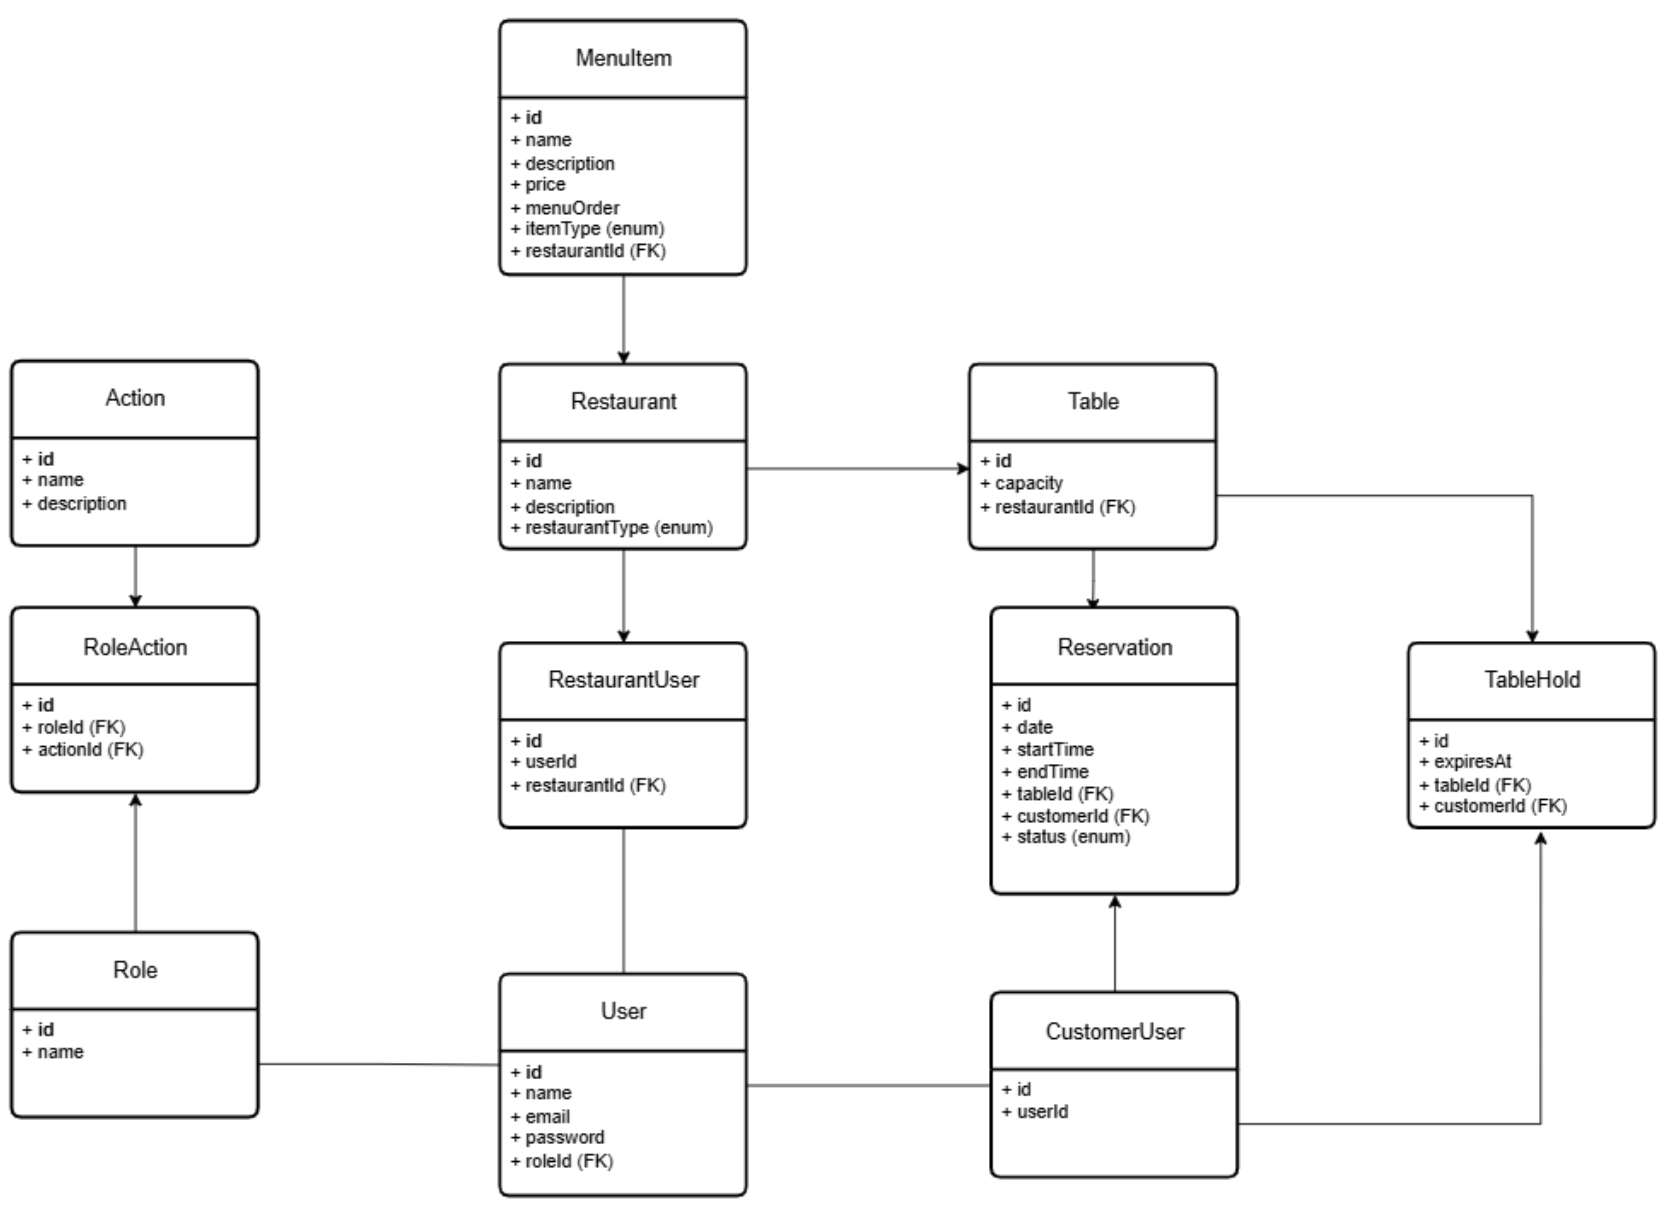
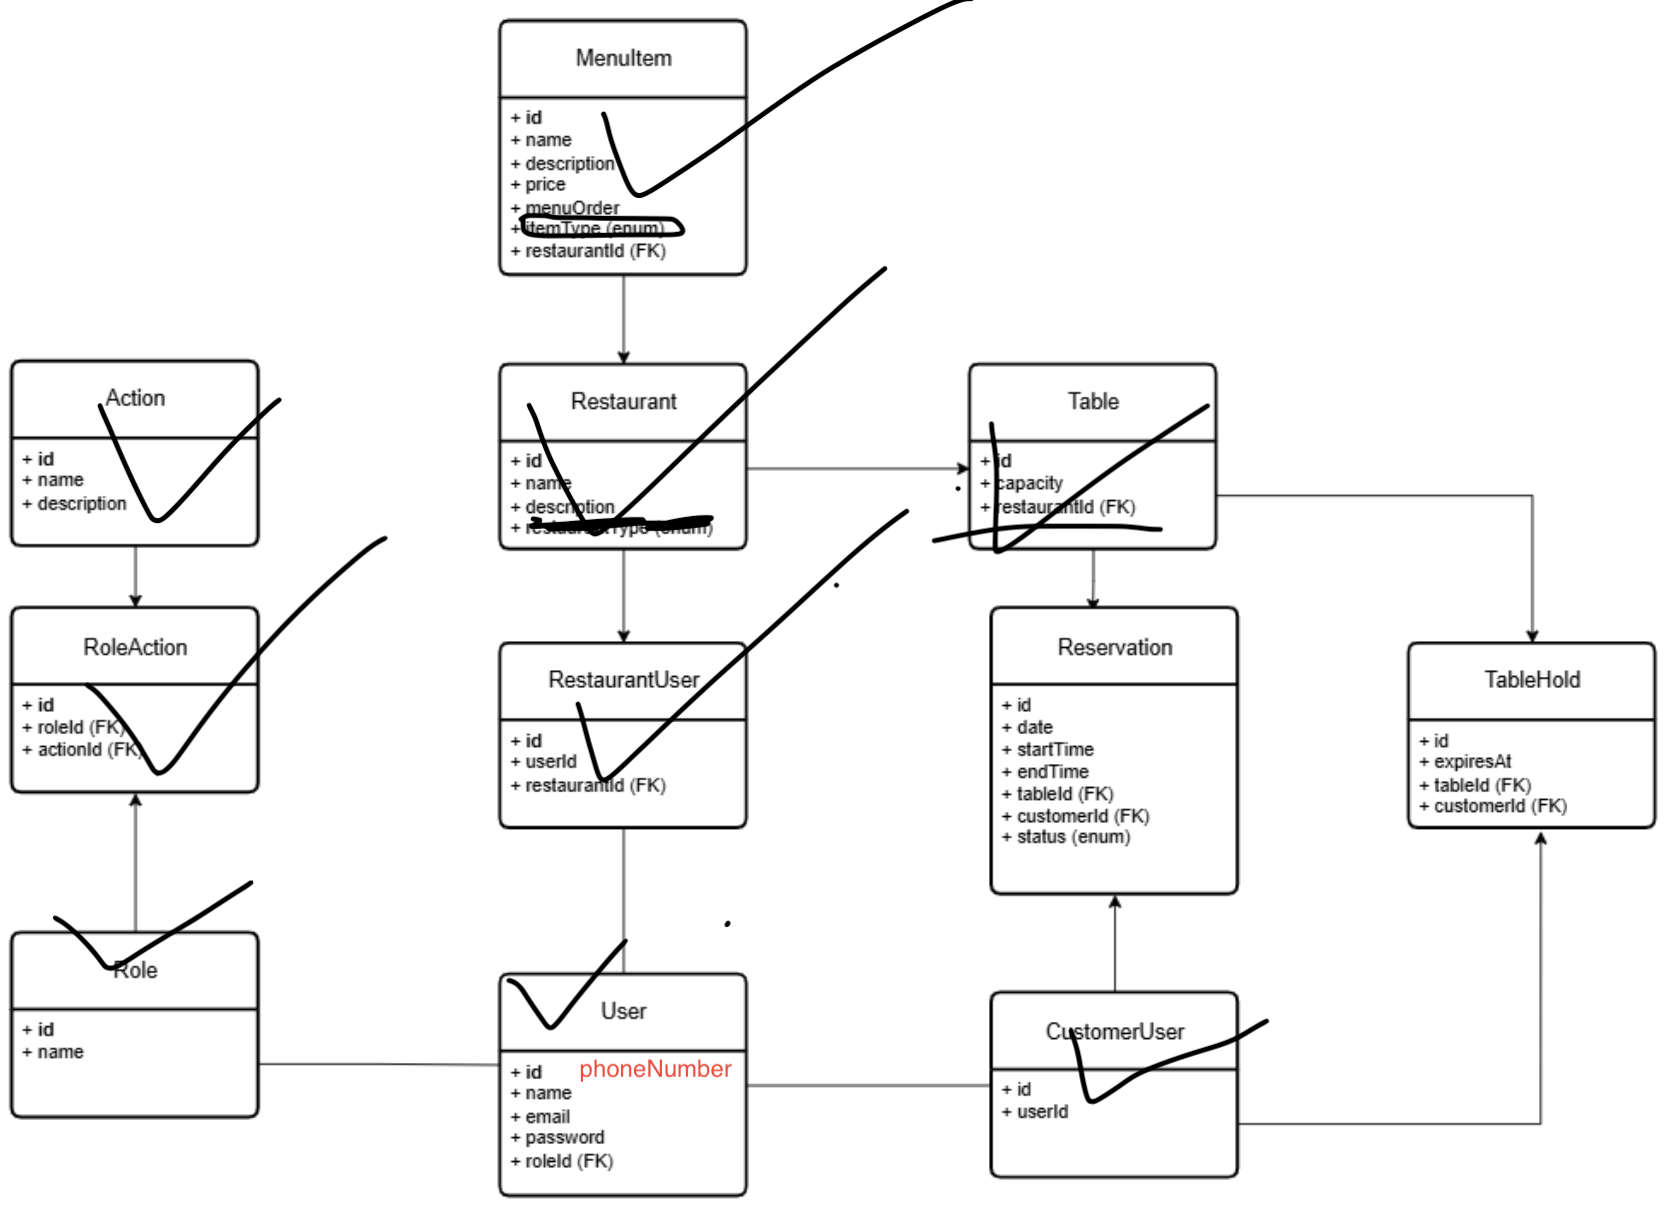
#4 create entity classes, add test containers configuration

diff --git a/src/main/java/com/mennangok1/reserved/user/User.java b/src/main/java/com/mennangok1/reserved/user/User.java
@@ -1,0 +1,38 @@
+package com.mennangok1.reserved.user;
+
+import com.mennangok1.reserved.role.Role;
+import jakarta.persistence.*;
+import jakarta.validation.constraints.Email;
+import jakarta.validation.constraints.NotBlank;
+import lombok.Getter;
+import lombok.Setter;
+
+@Entity
+@Getter
+@Setter
+public class User {
+    @Id
+    @GeneratedValue(strategy = GenerationType.IDENTITY)
+    @Column (name = "ID")
+    private Long id;
+
+    @Column (name = "NAME", nullable = false)
+    @NotBlank( message = "User Name cannot be empty!")
+    private String name;
+
+    @Column (name = "EMAIL", nullable = false)
+    @Email (message = "Enter a valid e-mail address!")
+    @NotBlank (message = "E-mail cannot be empty!")
+    private String email;
+
+    @Column (name = "PASSWORD", nullable = false)
+    private String password;
+
+    @Column (name = "PHONE_NUMBER")
+    private String phoneNumber;
+
+    @ManyToOne (fetch = FetchType.LAZY)
+    @JoinColumn(name = "ROLE_ID", nullable = false)
+    private Role role;
+
+}

diff --git a/src/main/java/com/mennangok1/reserved/reservation/Reservation.java b/src/main/java/com/mennangok1/reserved/reservation/Reservation.java
@@ -1,0 +1,39 @@
+package com.mennangok1.reserved.reservation;
+
+import com.mennangok1.reserved.customerUser.CustomerUser;
+import com.mennangok1.reserved.restaurantTable.RestaurantTable;
+import jakarta.persistence.*;
+import lombok.Getter;
+import lombok.Setter;
+import java.time.LocalDateTime;
+
+@Entity
+@Getter
+@Setter
+public class Reservation {
+    @Id
+    @GeneratedValue(strategy = GenerationType.IDENTITY)
+    @Column (name = "ID")
+    private Long id;
+
+    @Column (name = "START_DATE")
+    private LocalDateTime startDate;
+
+    @Column (name = "END_DATE")
+    private LocalDateTime endDate;
+
+    @ManyToOne (fetch =  FetchType.LAZY)
+    @JoinColumn (name = "TABLE_ID")
+    private RestaurantTable restaurantTable;
+
+    @ManyToOne (fetch =  FetchType.LAZY)
+    @JoinColumn (name = "CUSTOMER_USER_ID")
+    private CustomerUser customerUser;
+
+    @Enumerated(EnumType.ORDINAL)
+    @Column(name = "STATUS")
+    private ReservationStatus status;
+
+
+
+}

diff --git a/src/main/java/com/mennangok1/reserved/menuItem/MenuItem.java b/src/main/java/com/mennangok1/reserved/menuItem/MenuItem.java
@@ -1,0 +1,38 @@
+package com.mennangok1.reserved.menuItem;
+
+
+import com.mennangok1.reserved.itemType.ItemType;
+import com.mennangok1.reserved.restaurant.Restaurant;
+import jakarta.persistence.*;
+import lombok.Getter;
+import lombok.Setter;
+
+@Entity
+@Getter
+@Setter
+public class MenuItem {
+    @Id
+    @GeneratedValue(strategy = GenerationType.IDENTITY)
+    @Column (name = "ID")
+    private Long id;
+
+    @Column (name = "NAME")
+    private String name;
+
+    @Column (name = "DESCRIPTION")
+    private String description;
+
+    @Column (name = "PRICE")
+    private Double price;
+
+    @Column (name = "MENU_ORDER")
+    private Long menuOrder;
+
+    @ManyToOne (fetch =  FetchType.LAZY)
+    @JoinColumn (name = "ITEM_TYPE")
+    private ItemType itemType;
+
+    @ManyToOne (fetch = FetchType.LAZY)
+    @JoinColumn (name = "RESTAURANT_ID")
+    private Restaurant restaurant;
+}

diff --git a/src/main/java/com/mennangok1/reserved/roleAction/RoleAction.java b/src/main/java/com/mennangok1/reserved/roleAction/RoleAction.java
@@ -1,0 +1,28 @@
+package com.mennangok1.reserved.roleAction;
+
+import com.mennangok1.reserved.action.Action;
+import com.mennangok1.reserved.role.Role;
+import jakarta.persistence.*;
+import lombok.Getter;
+import lombok.Setter;
+
+@Entity
+@Table(uniqueConstraints = @UniqueConstraint(columnNames = {"ROLE_ID", "ACTION_ID"}))
+@Getter
+@Setter
+public class RoleAction {
+    @Id
+    @GeneratedValue(strategy = GenerationType.IDENTITY)
+    @Column(name = "ID")
+    private Long id;
+
+    @ManyToOne (fetch =  FetchType.LAZY)
+    @JoinColumn(name = "ROLE_ID", nullable = false)
+    private Role role;
+
+    @ManyToOne (fetch =  FetchType.LAZY)
+    @JoinColumn(name = "ACTION_ID", nullable = false)
+    private Action action;
+
+
+}

diff --git a/src/main/java/com/mennangok1/reserved/tableHold/TableHold.java b/src/main/java/com/mennangok1/reserved/tableHold/TableHold.java
@@ -1,0 +1,31 @@
+package com.mennangok1.reserved.tableHold;
+
+import com.mennangok1.reserved.customerUser.CustomerUser;
+import com.mennangok1.reserved.restaurantTable.RestaurantTable;
+import jakarta.persistence.*;
+import lombok.Getter;
+import lombok.Setter;
+
+import java.time.LocalDateTime;
+
+@Entity
+@Getter
+@Setter
+public class TableHold {
+    @Id
+    @GeneratedValue(strategy = GenerationType.IDENTITY)
+    private Long id;
+
+    @Column (name = "EXPIRES_AT")
+    private LocalDateTime expiresAt;
+
+    @ManyToOne
+    @JoinColumn (name = "TABLE_ID")
+    private RestaurantTable restaurantTable;
+
+    @ManyToOne
+    @JoinColumn (name = "CUSTOMER_ID")
+    private CustomerUser customerUser;
+
+
+}

diff --git a/src/main/java/com/mennangok1/reserved/restaurantUser/RestaurantUser.java b/src/main/java/com/mennangok1/reserved/restaurantUser/RestaurantUser.java
@@ -1,0 +1,26 @@
+package com.mennangok1.reserved.restaurantUser;
+
+
+import com.mennangok1.reserved.restaurant.Restaurant;
+import com.mennangok1.reserved.user.User;
+import jakarta.persistence.*;
+import lombok.Getter;
+import lombok.Setter;
+
+@Entity
+@Getter
+@Setter
+public class RestaurantUser {
+    @Id
+    @GeneratedValue(strategy = GenerationType.IDENTITY)
+    @Column (name = "ID")
+    private Long id;
+
+    @OneToOne (fetch = FetchType.LAZY)
+    @JoinColumn (name = "USER_ID")
+    private User user;
+
+    @ManyToOne (fetch = FetchType.LAZY)
+    @JoinColumn (name = "RESTAURANT_ID")
+    private Restaurant restaurant;
+}

diff --git a/src/test/java/com/mennangok1/reserved/TestcontainersConfiguration.java b/src/test/java/com/mennangok1/reserved/TestcontainersConfiguration.java
@@ -1,0 +1,18 @@
+package com.mennangok1.reserved;
+
+import org.springframework.boot.test.context.TestConfiguration;
+import org.springframework.boot.testcontainers.service.connection.ServiceConnection;
+import org.springframework.context.annotation.Bean;
+import org.testcontainers.containers.PostgreSQLContainer;
+import org.testcontainers.utility.DockerImageName;
+
+@TestConfiguration(proxyBeanMethods = false)
+public class TestcontainersConfiguration {
+
+    @Bean
+    @ServiceConnection
+    PostgreSQLContainer<?> postgresContainer() {
+        return new PostgreSQLContainer<>(DockerImageName.parse("postgres:16"));
+    }
+
+}

diff --git a/src/main/java/com/mennangok1/reserved/restaurantTable/RestaurantTable.java b/src/main/java/com/mennangok1/reserved/restaurantTable/RestaurantTable.java
@@ -1,0 +1,24 @@
+package com.mennangok1.reserved.restaurantTable;
+
+
+import com.mennangok1.reserved.restaurant.Restaurant;
+import jakarta.persistence.*;
+import lombok.Getter;
+import lombok.Setter;
+
+@Entity
+@Getter
+@Setter
+public class RestaurantTable {
+    @Id
+    @GeneratedValue(strategy = GenerationType.IDENTITY)
+    @Column (name = "ID")
+    private Long id;
+
+    @Column (name = "CAPACITY")
+    private Long capacity;
+
+    @ManyToOne (fetch = FetchType.LAZY)
+    @JoinColumn (name = "RESTAURANT_ID")
+    private Restaurant restaurant;
+}

diff --git a/src/main/java/com/mennangok1/reserved/customerUser/CustomerUser.java b/src/main/java/com/mennangok1/reserved/customerUser/CustomerUser.java
@@ -1,0 +1,20 @@
+package com.mennangok1.reserved.customerUser;
+
+import com.mennangok1.reserved.user.User;
+import jakarta.persistence.*;
+import lombok.Getter;
+import lombok.Setter;
+
+@Entity
+@Getter
+@Setter
+public class CustomerUser {
+    @Id
+    @GeneratedValue(strategy = GenerationType.IDENTITY)
+    @Column (name = "ID")
+    private Long id;
+
+    @OneToOne (fetch =  FetchType.LAZY)
+    @JoinColumn (name = "USER_ID", nullable = false)
+    private User user;
+}

diff --git a/src/main/java/com/mennangok1/reserved/restaurant/Restaurant.java b/src/main/java/com/mennangok1/reserved/restaurant/Restaurant.java
@@ -1,0 +1,28 @@
+package com.mennangok1.reserved.restaurant;
+
+
+import jakarta.persistence.*;
+import lombok.Getter;
+import lombok.Setter;
+
+@Entity
+@Getter
+@Setter
+public class Restaurant {
+    @Id
+    @GeneratedValue(strategy = GenerationType.IDENTITY)
+    @Column (name = "ID")
+    private Long id;
+
+    @Column( name = "NAME")
+    private String name;
+
+    @Column (name = "DESCRIPTION")
+    private String description;
+
+
+
+
+
+
+}

diff --git a/src/main/java/com/mennangok1/reserved/action/Action.java b/src/main/java/com/mennangok1/reserved/action/Action.java
@@ -1,0 +1,25 @@
+package com.mennangok1.reserved.action;
+
+import jakarta.persistence.*;
+import lombok.Getter;
+import lombok.Setter;
+
+@Entity
+@Getter
+@Setter
+public class Action {
+    @Id
+    @GeneratedValue(strategy = GenerationType.IDENTITY)
+    @Column(name = "ID")
+    private Long id;
+
+    @Column(name = "NAME")
+    private String name;
+
+    @Column (name = "DESCRIPTION")
+    private String description;
+
+
+
+
+}

diff --git a/src/main/java/com/mennangok1/reserved/role/Role.java b/src/main/java/com/mennangok1/reserved/role/Role.java
@@ -1,0 +1,21 @@
+package com.mennangok1.reserved.role;
+
+import jakarta.persistence.*;
+import lombok.Getter;
+import lombok.Setter;
+
+@Entity
+@Getter
+@Setter
+public class Role {
+    @Id
+    @GeneratedValue(strategy = GenerationType.IDENTITY)
+    @Column(name = "ID")
+    private Long id;
+
+    @Column(name = "NAME")
+    private String name;
+
+
+
+}
